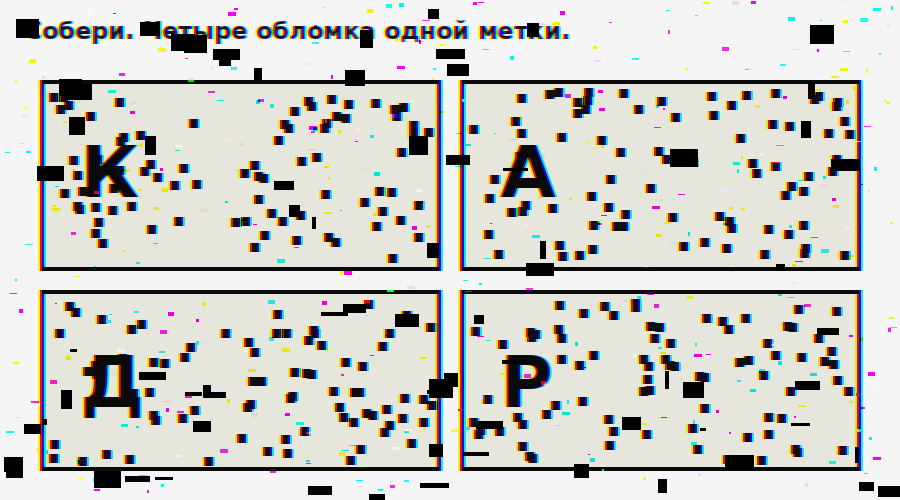
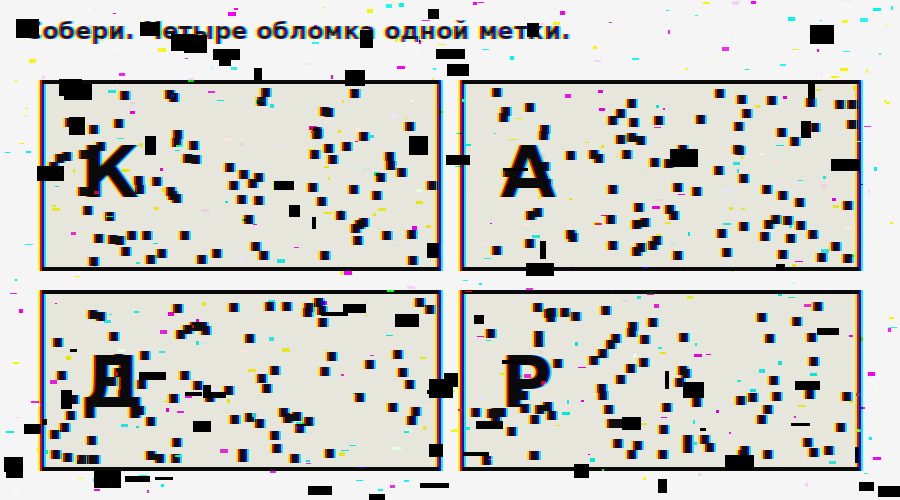
+

diff --git a/bot/tools/make_quest_assets.py b/bot/tools/make_quest_assets.py
@@ -549,7 +549,7 @@ def make_n3():
     for i, ch in enumerate("АБВ"):
         draw_pigpen(d, (50 + i * 90, 460), ch, scale=16)
         d.text((50 + i * 90, 530), ch, fill=(70, 60, 50), font=font(18))
-    hack_glitch(p1, seed=31).save(OUT / "artifact_3a.png")
+    hack_glitch(p1, seed=31, power=0.7).save(OUT / "artifact_3a.png")
 
     p2 = Image.new("RGB", (1100, 420), (232, 216, 190))
     d = ImageDraw.Draw(p2)
@@ -563,7 +563,7 @@ def make_n3():
     d.text((36, 20), "ТЕТРАДЬ · лист III   ключ — то, что открыл лист I", fill=(80, 50, 30), font=font(24))
     d.text((36, 140), vig_c, fill=(20, 20, 50), font=font(64))
     d.text((36, 280), "Виженер. Алфавит 32 буквы, без Ё. Ключ уже у тебя.", fill=(70, 60, 50), font=font(22))
-    hack_glitch(p3, seed=33).save(OUT / "artifact_3c.png")
+    hack_glitch(p3, seed=33, power=0.5).save(OUT / "artifact_3c.png")
 
     p4 = Image.new("RGB", (1100, 640), (232, 216, 190))
     d = ImageDraw.Draw(p4)
